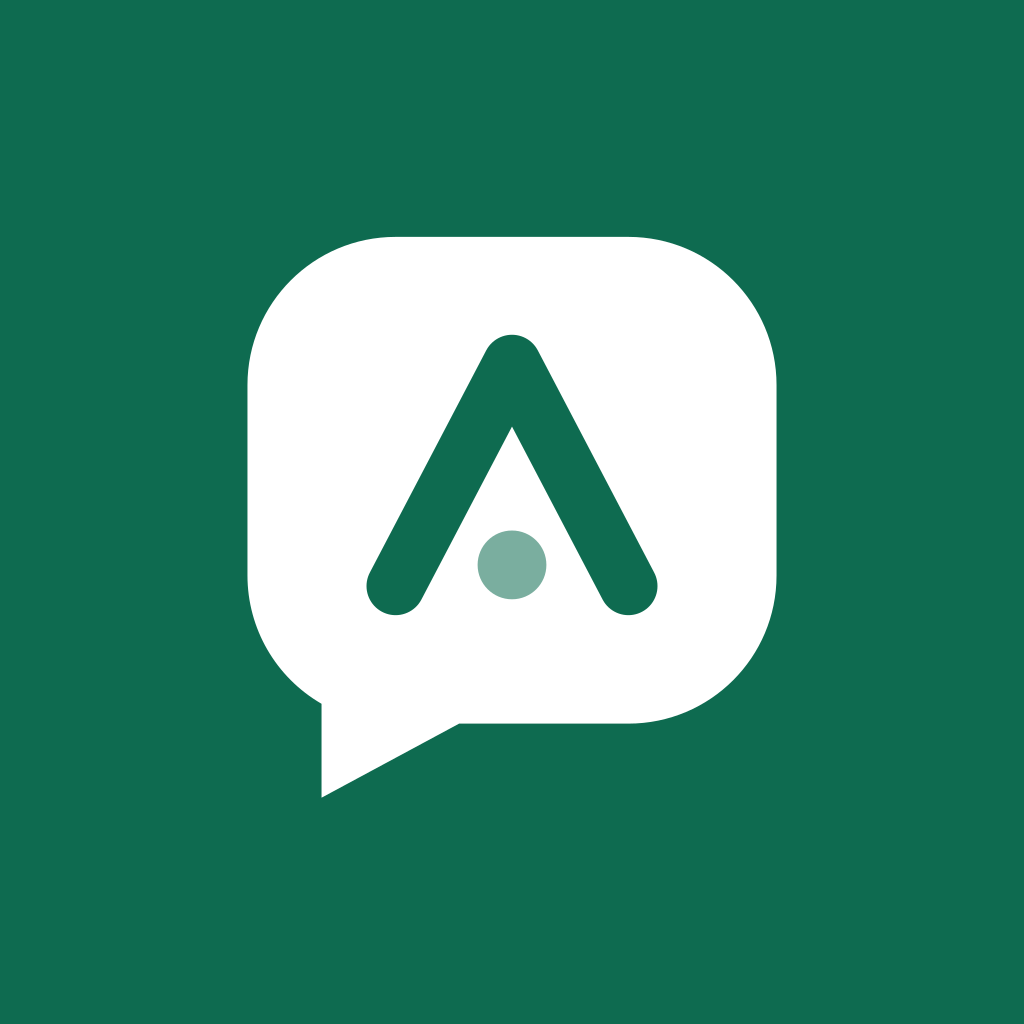
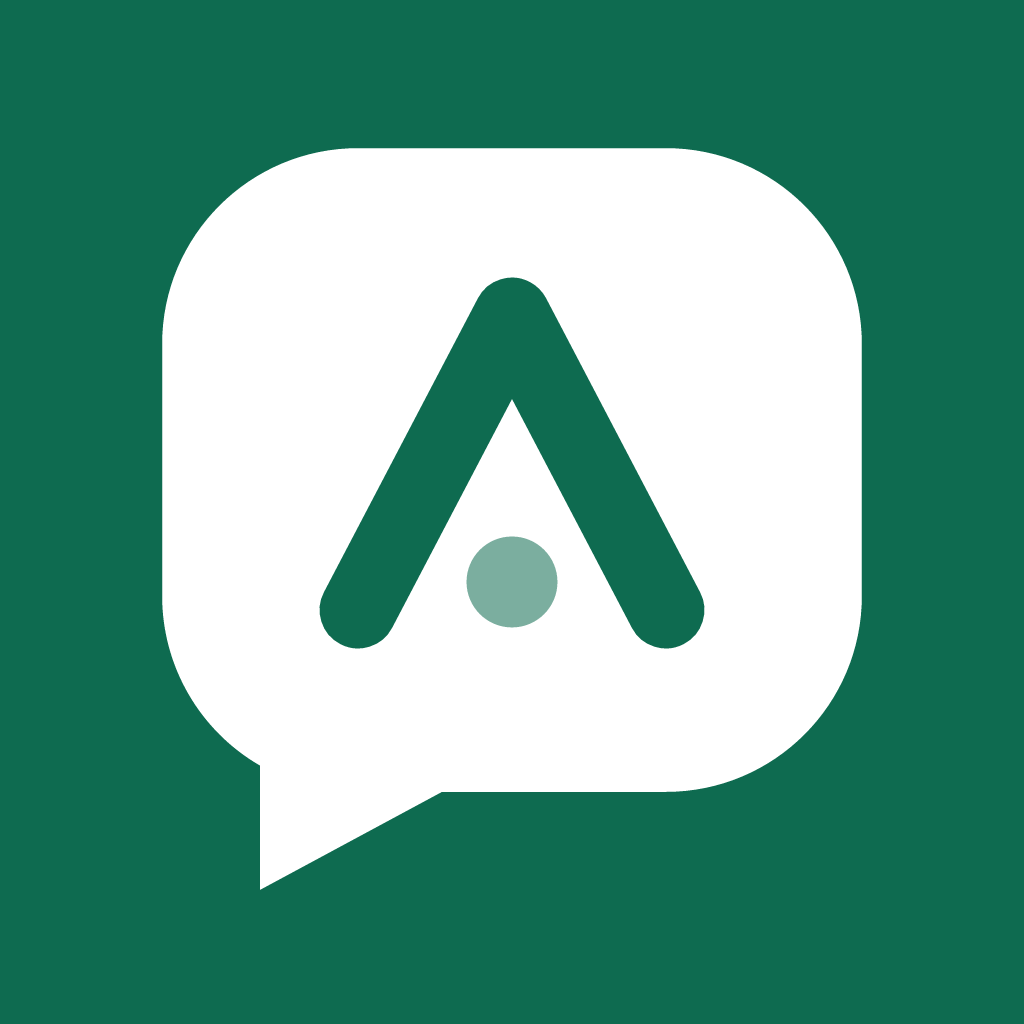
Ameen : icône d'app avec la bulle agrandie (68 % de la largeur)

Changed region(s): [[0.1562, 0.125, 0.8438, 0.875]]

diff --git a/docs/REBRAND_STATUS.md b/docs/REBRAND_STATUS.md
@@ -16,7 +16,7 @@ générées et les images.
 | MAS (OAuth) | `AmeenAppHooks.swift`, `target.yml` | Retour `https://ameen.dz/oauth/ios/dz.ameen.app`, domaine associé `webcredentials:ameen.dz` ; domaines `element.io` et `matrix.to` retirés |
 | Télémétrie | `Components/Secrets/Secrets.swift`, `AppSettings.swift` | PostHog, Sentry, rageshake et MapTiler à `nil`. Clés PostHog et Sentry d'Element Call (écrites en dur) supprimées |
 | Couleurs | `ElementX/Sources/Ameen/AmeenColors.swift` (généré par `ameen/generate-colors.py`), `Assets.xcassets/colors` | Palette de l'app web (`ameen.css`) sur 63 couleurs Compound, via `CompoundHook`. Boutons principaux et liens en vert, accent sombre `#219A75`, fond sombre Encre. Contraste élevé inchangé |
-| Icône | `ElementX/Resources/AppIcon.icon` | `ameen-icone-ios-carre.svg` en PNG 1024 opaque |
+| Icône | `ElementX/Resources/AppIcon.icon` | `ameen-icone-ios-carre.svg` en PNG 1024 opaque (bulle agrandie le 24/11/2026 : 68 % de la largeur) |
 | Écran d'accueil | `ElementX/Sources/Ameen/AmeenWelcomeCard.swift` (nouveau), `AuthenticationStartScreen.swift` (un bloc), `launch-background`, `ameen-welcome-logo`, `app-logo` | Fond illustré de la page de connexion web (version portrait : `ameen/fonds/`), carte avec le logo complet v2 et le slogan de la charte. Symbole Ameen sur les écrans d'attente |
 | Textes | `ElementX/Resources/Localizations/{en,fr,ar}.lproj/Ameen.strings`, modèle SwiftGen, `InfoPlist.strings` | Textes Ameen lus avant ceux d'Element (fichiers Localazy non modifiés). Écran du serveur : « domaine de votre entreprise ». Messages de permission : « Ameen » |
 | Langues | `target.yml` | Anglais, français et arabe seulement |
